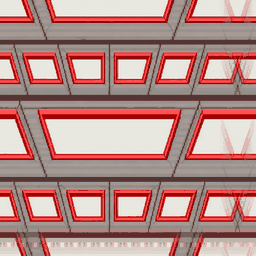
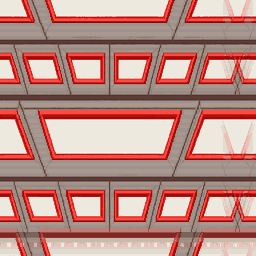
buck-rogers: BR1 pixel floors/ceilings/skies from PixelLab, drop shrink-derived pixel()

diff --git a/tools/remaster/make_floor.py b/tools/remaster/make_floor.py
@@ -3,8 +3,8 @@
 remaster.json "floor": {"ref": reference png, "prompt": text, "raw": raw output name, "out": texture path},
 all relative to the game dir; "rw" as in make_textures.py. "floor" may be a list of such entries (NAMEs pick
 entries by raw name); an entry may add "crop": [x0, y0, x1, y1] of ref, and "sky": [w, h] to keep the picture
-untiled at that size (a panning sky_* backdrop) instead of a 256x256 tile. Each entry with "pixel": path also
-writes the pixel-style version: 256 wide, 48 colours (8 kept for highlights), no dither."""
+untiled at that size (a panning sky_* backdrop) instead of a 256x256 tile. Pixel variants ("pixel": path)
+come from PixelLab only (make_pixel.py); never derive them from this output by shrinking."""
 import io, sys, types
 from pathlib import Path
 import numpy as np
@@ -33,32 +33,6 @@ def tile(im):
     return Image.fromarray(a.astype(np.uint8), "RGB").resize((256, 256), Image.LANCZOS)
 
 
-def pixel(im):
-    """The pixel style: 256 wide, 48 colours without dither. Small lights survive: a shrink keeps a cell's
-    brightest source pixel where it stands out (a lit window would average into the dark), and 8 of the 48
-    colours are taken from the brightest pixels, so median cut cannot spend them all on large areas."""
-    im = im.convert("RGB")
-    w, h = im.size
-    size = (256, max(1, h * 256 // w))
-    out = np.asarray(im.resize(size, Image.LANCZOS), np.float32)
-    k = w // 256
-    if k > 1 and w == 256 * k and h == size[1] * k:
-        a = np.asarray(im, np.float32).reshape(size[1], k, 256, k, 3).transpose(0, 2, 1, 3, 4).reshape(size[1], 256, k * k, 3)
-        lum = a @ [0.299, 0.587, 0.114]
-        top = a[np.arange(size[1])[:, None], np.arange(256), lum.argmax(2)]
-        spot = (lum.max(2) - out @ [0.299, 0.587, 0.114]) > 60
-        out[spot] = top[spot]
-    small = Image.fromarray(out.astype(np.uint8), "RGB")
-    px = out.reshape(-1, 3)
-    lum = px @ [0.299, 0.587, 0.114] + (px.max(1) - px.min(1)) * 0.5
-    hi = px[lum >= np.percentile(lum, 99.5)].astype(np.uint8)
-    hipal = Image.fromarray(hi.reshape(1, -1, 3), "RGB").quantize(8, Image.Quantize.MEDIANCUT).getpalette()[:24]
-    cols = small.quantize(40, Image.Quantize.MEDIANCUT).getpalette()[:120] + hipal
-    pal = Image.new("P", (1, 1))
-    pal.putpalette(cols + cols[:3] * (256 - len(cols) // 3))  # padded with a used colour, not black
-    return small.quantize(palette=pal, dither=Image.Dither.NONE).convert("RGBA")
-
-
 names = [a for a in sys.argv[2:] if not a.startswith("--")]
 for F in (F if isinstance(F, list) else [F]):
     if names and F["raw"] not in names:
@@ -83,7 +57,4 @@ for F in (F if isinstance(F, list) else [F]):
     im = im.convert("RGB").resize(tuple(F["sky"]), Image.LANCZOS) if "sky" in F else tile(im)
     out.parent.mkdir(parents=True, exist_ok=True)
     im.save(out)
-    if "pixel" in F:
-        (ROOT / F["pixel"]).parent.mkdir(parents=True, exist_ok=True)
-        pixel(im).save(ROOT / F["pixel"])
     print(F["raw"], "ok")

diff --git a/tools/remaster/make_pixel.py b/tools/remaster/make_pixel.py
@@ -1,0 +1,32 @@
+"""Pixel variants of the 3D floors, ceilings and skies, made by PixelLab only.
+  python3 make_pixel.py GAMEDIR [--force] [NAME...]
+For each remaster.json "floor" entry with "pixel": path, sends the hi-res twin ("out") to PixelLab
+/image-to-pixelart (the gobox pixel-wall recipe: init_image_strength 200, seed 7) at 256 wide, the twin's
+aspect kept. Pixel variants are never derived from the twin by shrinking or colour quantizing."""
+import json, subprocess, sys, tempfile
+from pathlib import Path
+from PIL import Image
+import areas
+
+CLI = Path.home() / ".claude/skills/pixellab/pixellab_cli.py"
+CFG = areas.load(sys.argv[1])
+F = CFG["floor"]
+names = [a for a in sys.argv[2:] if not a.startswith("--")]
+for F in (F if isinstance(F, list) else [F]):
+    if "pixel" not in F or (names and F["raw"] not in names):
+        continue
+    out = areas.GAME / F["pixel"]
+    if out.exists() and "--force" not in sys.argv:
+        print(f"{out} exists; skipped (--force to overwrite)")
+        continue
+    twin = areas.GAME / F["out"]
+    w, h = Image.open(twin).size
+    with tempfile.TemporaryDirectory() as d:
+        subprocess.run([sys.executable, CLI, "call", "POST", "/image-to-pixelart", f"image=@{twin}",
+                        "image_size=" + json.dumps({"width": w, "height": h}),
+                        "output_size=" + json.dumps({"width": 256, "height": h * 256 // w}),
+                        "init_image_strength=200", "seed=7", "-o", d], check=True, stdout=subprocess.DEVNULL)
+        png, = Path(d).glob("*.png")
+        out.parent.mkdir(parents=True, exist_ok=True)
+        Image.open(png).convert("RGBA").save(out)
+    print(F["raw"], "ok")

diff --git a/walls/INDEX.md b/walls/INDEX.md
@@ -185,7 +185,7 @@ No same-name/different-image collisions were found. sotsb ships no wall PNGs (it
 
 ## buck-rogers floors and skies
 
-BR1's remastered ground and sky, one floor and one ceiling (sky_*: an outdoor sky that pans) per distinct BACK<disk>.DAX picture (origin: file-block); buckrogers-go rules/gamewalls.go backFlats maps every block to them. Made by tools/remaster/make_floor.py (buckrogers-go remaster.json "floor").
+BR1's remastered ground and sky, one floor and one ceiling (sky_*: an outdoor sky that pans) per distinct BACK<disk>.DAX picture (origin: file-block); buckrogers-go rules/gamewalls.go backFlats maps every block to them. Made by tools/remaster/make_floor.py (buckrogers-go remaster.json "floor"). The pixel variants are PixelLab-made (tools/remaster/make_pixel.py: /image-to-pixelart of the twin, strength 200, seed 7), never shrunk from the twin.
 
 name | size | origin
 --- | --- | ---
